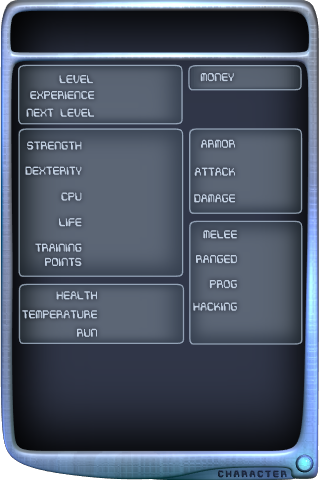
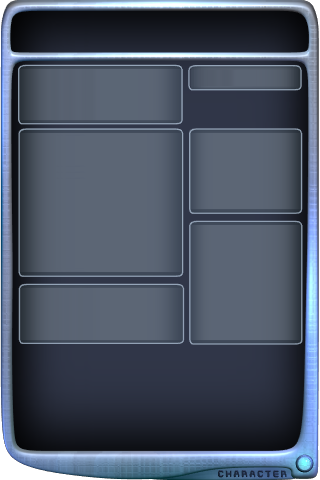
removed text from character screen and added it in code in order to enable translations of character screen.
git-svn-id: https://freedroid.svn.sourceforge.net/svnroot/freedroid@805 524c2bfb-fa3f-0410-b5a2-92f4e1dc5b61

diff --git a/src/character.c b/src/character.c
@@ -63,14 +63,12 @@
 #define AC_Y 138
 
 
-#define MELEE_SKILL_X 247
-#define MELEE_SKILL_Y 228
+#define MELEE_SKILL_X 237
+#define MELEE_SKILL_Y 230
 #define RANGED_SKILL_X MELEE_SKILL_X
-#define RANGED_SKILL_Y 252
+#define RANGED_SKILL_Y 270
 #define SPELLCASTING_SKILL_X MELEE_SKILL_X
-#define SPELLCASTING_SKILL_Y 276
-#define HACKING_SKILL_X MELEE_SKILL_X
-#define HACKING_SKILL_Y 301
+#define SPELLCASTING_SKILL_Y 310
 
 /**
  * This function displays all the buttons that open up the character
@@ -609,8 +607,9 @@ show_character_screen_skills ( )
 Error: melee weapon skill seems out of bounds.",
 				   PLEASE_INFORM, IS_FATAL );
     }
+    DisplayText( _("Melee"), MELEE_SKILL_X - 35 + CharacterRect.x , MELEE_SKILL_Y + CharacterRect.y , &CharacterRect , TEXT_STRETCH );
     DisplayText( _(AllSkillTexts [ Me . melee_weapon_skill ]), 
-		 MELEE_SKILL_X + CharacterRect.x , MELEE_SKILL_Y + CharacterRect.y , &CharacterRect , TEXT_STRETCH );
+		 MELEE_SKILL_X + CharacterRect.x , MELEE_SKILL_Y + 12 +  CharacterRect.y , &CharacterRect , TEXT_STRETCH );
 
     //--------------------
     // We add some security against skill values out of allowed
@@ -624,8 +623,9 @@ Error: melee weapon skill seems out of bounds.",
 Error: ranged weapon skill seems out of bounds.",
 				   PLEASE_INFORM, IS_FATAL );
     }
+    DisplayText( _("Ranged"), MELEE_SKILL_X - 35 + CharacterRect.x , RANGED_SKILL_Y + CharacterRect.y , &CharacterRect , TEXT_STRETCH );
     DisplayText( _(AllSkillTexts [ Me . ranged_weapon_skill ]), 
-		 RANGED_SKILL_X + CharacterRect.x , RANGED_SKILL_Y + CharacterRect.y , &CharacterRect , TEXT_STRETCH );
+		 RANGED_SKILL_X + CharacterRect.x , RANGED_SKILL_Y + 12 + CharacterRect.y , &CharacterRect , TEXT_STRETCH );
 
     //--------------------
     // We add some security against skill values out of allowed
@@ -639,8 +639,9 @@ Error: ranged weapon skill seems out of bounds.",
 Error: Programming_Skill skill seems out of bounds.",
 				   PLEASE_INFORM, IS_FATAL );
     }
+    DisplayText( _("Prog"), MELEE_SKILL_X - 35 + CharacterRect.x , SPELLCASTING_SKILL_Y + CharacterRect.y , &CharacterRect , TEXT_STRETCH );
     DisplayText( _(AllSkillTexts [ Me . spellcasting_skill ]), 
-		 SPELLCASTING_SKILL_X + CharacterRect.x , SPELLCASTING_SKILL_Y + CharacterRect.y , &CharacterRect , TEXT_STRETCH );
+		 SPELLCASTING_SKILL_X + CharacterRect.x , SPELLCASTING_SKILL_Y + 12 + CharacterRect.y , &CharacterRect , TEXT_STRETCH );
 
 }; // void show_character_screen_skills ( )
 
@@ -680,69 +681,83 @@ ShowCharacterScreen ( )
     CharacterRect . h = CHARACTERRECT_H;
     
     blit_special_background ( CHARACTER_SCREEN_BACKGROUND_CODE );
-    
+   
+    SetCurrentFont ( Blue_BFont );
+
+ 
     SetCurrentFont ( Menu_BFont );
     DisplayText( Me.character_name , 20 + CharacterRect.x , 12 + CharacterRect.y , &CharacterRect , TEXT_STRETCH );
     SetCurrentFont ( Message_BFont );
     
+    DisplayText( _("Level"), 30 + CharacterRect.x , 73 + CharacterRect.y , &CharacterRect , TEXT_STRETCH);
     sprintf( CharText , "%d", Me.exp_level );
     DisplayText( CharText , 110 + CharacterRect.x , 73 + CharacterRect.y , &CharacterRect , TEXT_STRETCH );
     
+    DisplayText( _("Experience"), 30 + CharacterRect.x , 89 + CharacterRect.y , &CharacterRect , TEXT_STRETCH);
     sprintf( CharText , "%u", Me.Experience ); 
     DisplayText( CharText , 110 + CharacterRect.x ,  89 + CharacterRect.y , &CharacterRect , TEXT_STRETCH );
     
+    DisplayText( _("Next level"), 30 + CharacterRect.x , 107 + CharacterRect.y , &CharacterRect , TEXT_STRETCH);
     sprintf( CharText , "%u", Me.ExpRequired );
     DisplayText( CharText , 110 + CharacterRect.x ,  107 + CharacterRect.y , &CharacterRect , TEXT_STRETCH ) ;
     
+    DisplayText( _("Money"), 200 + CharacterRect.x ,  71 + CharacterRect.y , &CharacterRect , TEXT_STRETCH ); 
     sprintf( CharText , "%6d", Me.Gold ); 
     DisplayText( CharText , 240 + CharacterRect.x ,  71 + CharacterRect.y , &CharacterRect , TEXT_STRETCH );
     
-    SetCurrentFont( Message_BFont) ;
+    DisplayText( _("Strength"), 30 + CharacterRect.x , STR_Y + CharacterRect.y , &CharacterRect , TEXT_STRETCH );
     sprintf( CharText , "%d", Me.Strength);
     if ( Me.Strength != Me.base_strength ) 
 	sprintf ( CharText + strlen(CharText), " (%+d)", Me.Strength - Me.base_strength); 
     DisplayText( CharText , STR_X + CharacterRect.x , STR_Y + CharacterRect.y , &CharacterRect , TEXT_STRETCH );
-    
-    SetCurrentFont( Message_BFont) ;
-    sprintf( CharText , "%d", Me.Magic );
-    if ( Me.Magic != Me.base_magic ) 
-	sprintf ( CharText + strlen(CharText), " (%+d)", Me.Magic - Me.base_magic); 
-    DisplayText( CharText , STR_X + CharacterRect.x , MAG_Y + CharacterRect.y , &CharacterRect , TEXT_STRETCH );
-    
-    SetCurrentFont( Message_BFont) ;
+   
+    DisplayText( _("Dexterity"), 30 + CharacterRect.x , DEX_Y + CharacterRect.y , &CharacterRect , TEXT_STRETCH );
     sprintf( CharText , "%d", Me.Dexterity );
     if ( Me.Dexterity != Me.base_dexterity ) 
 	sprintf ( CharText + strlen(CharText), " (%+d)", Me.Dexterity - Me.base_dexterity); 
     DisplayText( CharText , STR_X + CharacterRect.x , DEX_Y + CharacterRect.y , &CharacterRect , TEXT_STRETCH );
     
-    SetCurrentFont( Message_BFont) ;
+    DisplayText( _("CPU"), 30 + CharacterRect.x , MAG_Y + CharacterRect.y , &CharacterRect , TEXT_STRETCH );
+    sprintf( CharText , "%d", Me.Magic );
+    if ( Me.Magic != Me.base_magic ) 
+	sprintf ( CharText + strlen(CharText), " (%+d)", Me.Magic - Me.base_magic); 
+    DisplayText( CharText , STR_X + CharacterRect.x , MAG_Y + CharacterRect.y , &CharacterRect , TEXT_STRETCH );
+    
+    DisplayText( _("Life"), 30 + CharacterRect.x , VIT_Y + CharacterRect.y , &CharacterRect , TEXT_STRETCH );
     sprintf( CharText , "%d", Me.Vitality );
     if ( Me.Vitality != Me.base_vitality ) 
 	sprintf ( CharText + strlen(CharText), " (%+d)", Me.Vitality - Me.base_vitality); 
     DisplayText( CharText , STR_X + CharacterRect.x , VIT_Y + CharacterRect.y , &CharacterRect , TEXT_STRETCH );
-    
-    SetCurrentFont( Message_BFont) ;
+   
+    SDL_Rect tmprect = CharacterRect;
+    tmprect . x += 30; 
+    DisplayText( _("Training\npoints"), 30 + CharacterRect.x , POINTS_Y - 8 + CharacterRect.y , &tmprect , TEXT_STRETCH );
     sprintf( CharText , "%d", Me.points_to_distribute );
     DisplayText( CharText , STR_X + CharacterRect.x , POINTS_Y + CharacterRect.y , &CharacterRect , TEXT_STRETCH );
-    
+   
+    DisplayText( _("Health"), 30 + CharacterRect.x , 289 + CharacterRect.y , &tmprect , TEXT_STRETCH );
     sprintf( CharText , "%d/%d", (int) Me.energy, (int) Me.maxenergy );
-    DisplayText( CharText , 105 + CharacterRect.x , 289 + CharacterRect.y , &CharacterRect , TEXT_STRETCH );
+    DisplayText( CharText , 115 + CharacterRect.x , 289 + CharacterRect.y , &CharacterRect , TEXT_STRETCH );
     
+    DisplayText( _("Temperature"), 30 + CharacterRect.x , 308 + CharacterRect.y , &tmprect , TEXT_STRETCH );
     sprintf( CharText , "%d/%d", (int) Me . temperature, (int) Me.max_temperature );
-    DisplayText( CharText , 105 + CharacterRect.x , 308+ CharacterRect.y , &CharacterRect , TEXT_STRETCH );
-
-    sprintf( CharText , "%d/%d", (int) Me . running_power, (int) Me . max_running_power );
-    DisplayText( CharText , 105 + CharacterRect.x , 327 + CharacterRect.y , &CharacterRect , TEXT_STRETCH );
+    DisplayText( CharText , 115 + CharacterRect.x , 308+ CharacterRect.y , &CharacterRect , TEXT_STRETCH );
     
+    DisplayText( _("Stamina"), 30 + CharacterRect.x , 327 + CharacterRect.y , &tmprect , TEXT_STRETCH );
+    sprintf( CharText , "%d/%d", (int) Me . running_power, (int) Me . max_running_power );
+    DisplayText( CharText , 115 + CharacterRect.x , 327 + CharacterRect.y , &CharacterRect , TEXT_STRETCH );
+   
+    DisplayText( _("Armor"), AC_X - 55 + CharacterRect.x, AC_Y + CharacterRect.y , &CharacterRect , TEXT_STRETCH ); 
     sprintf( CharText , "%d", (int) Me.AC );
     DisplayText( CharText , AC_X + CharacterRect.x , AC_Y + CharacterRect.y , &CharacterRect , TEXT_STRETCH );
 
+    DisplayText( _("Attack"), AC_X - 55 + CharacterRect.x, TOHIT_Y + CharacterRect.y , &CharacterRect , TEXT_STRETCH ); 
     sprintf( CharText , "%d%%", (int) Me.to_hit );
     DisplayText( CharText , TOHIT_X + CharacterRect.x , TOHIT_Y + CharacterRect.y , &CharacterRect , TEXT_STRETCH );
 
+    DisplayText( _("Damage"), AC_X - 55 + CharacterRect.x, DAMAGE_Y + CharacterRect.y , &CharacterRect , TEXT_STRETCH ); 
     sprintf( CharText , "%d-%d", (int) Me.base_damage , (int) Me.base_damage + (int) Me.damage_modifier );
     DisplayText( CharText , DAMAGE_X + CharacterRect.x , DAMAGE_Y + CharacterRect.y , &CharacterRect , TEXT_STRETCH );
-    
     
     
     //--------------------
